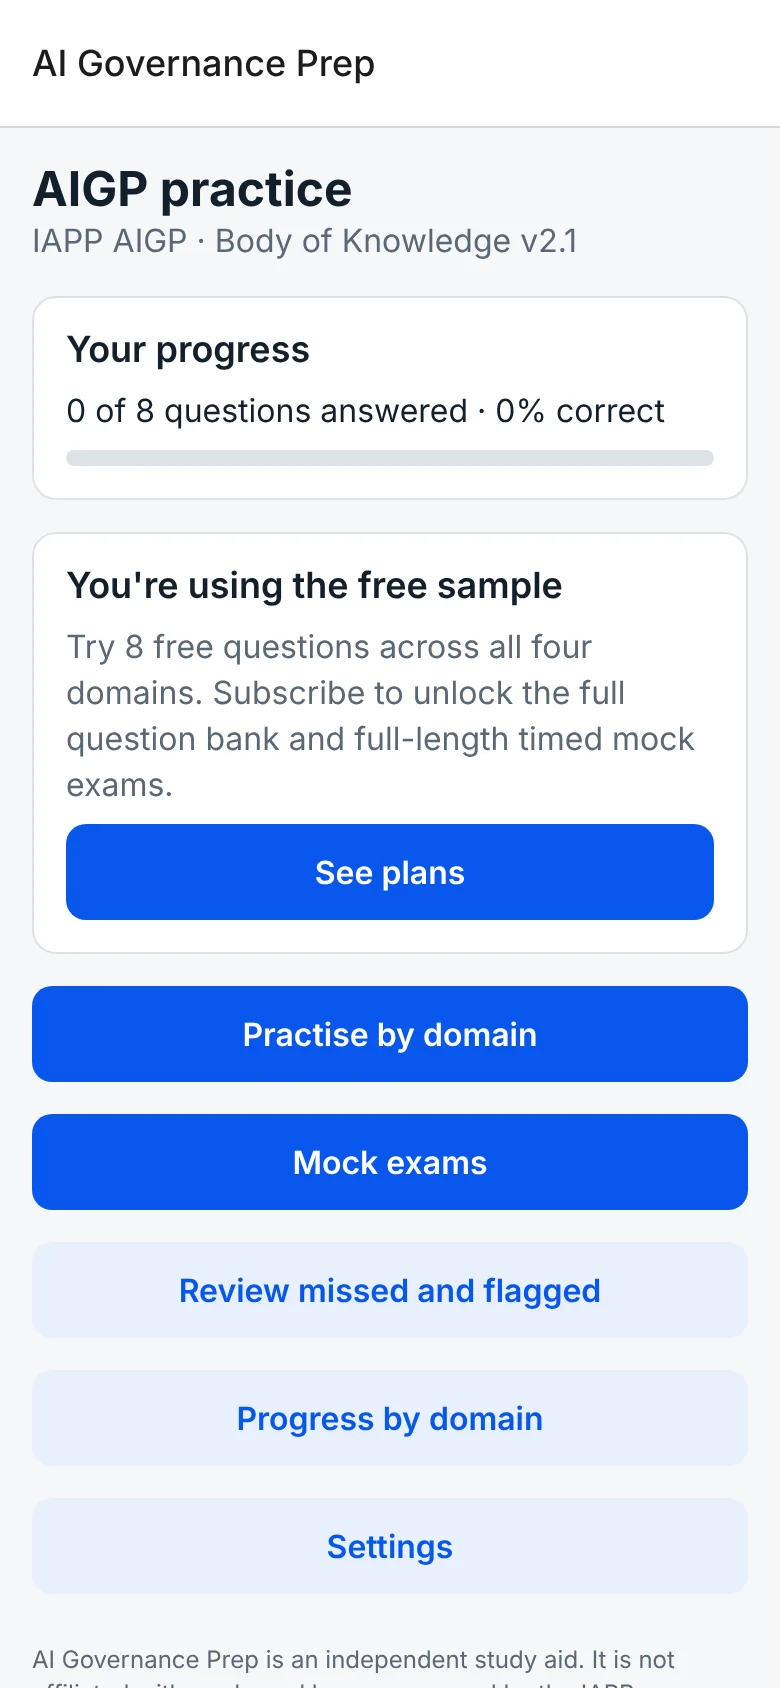
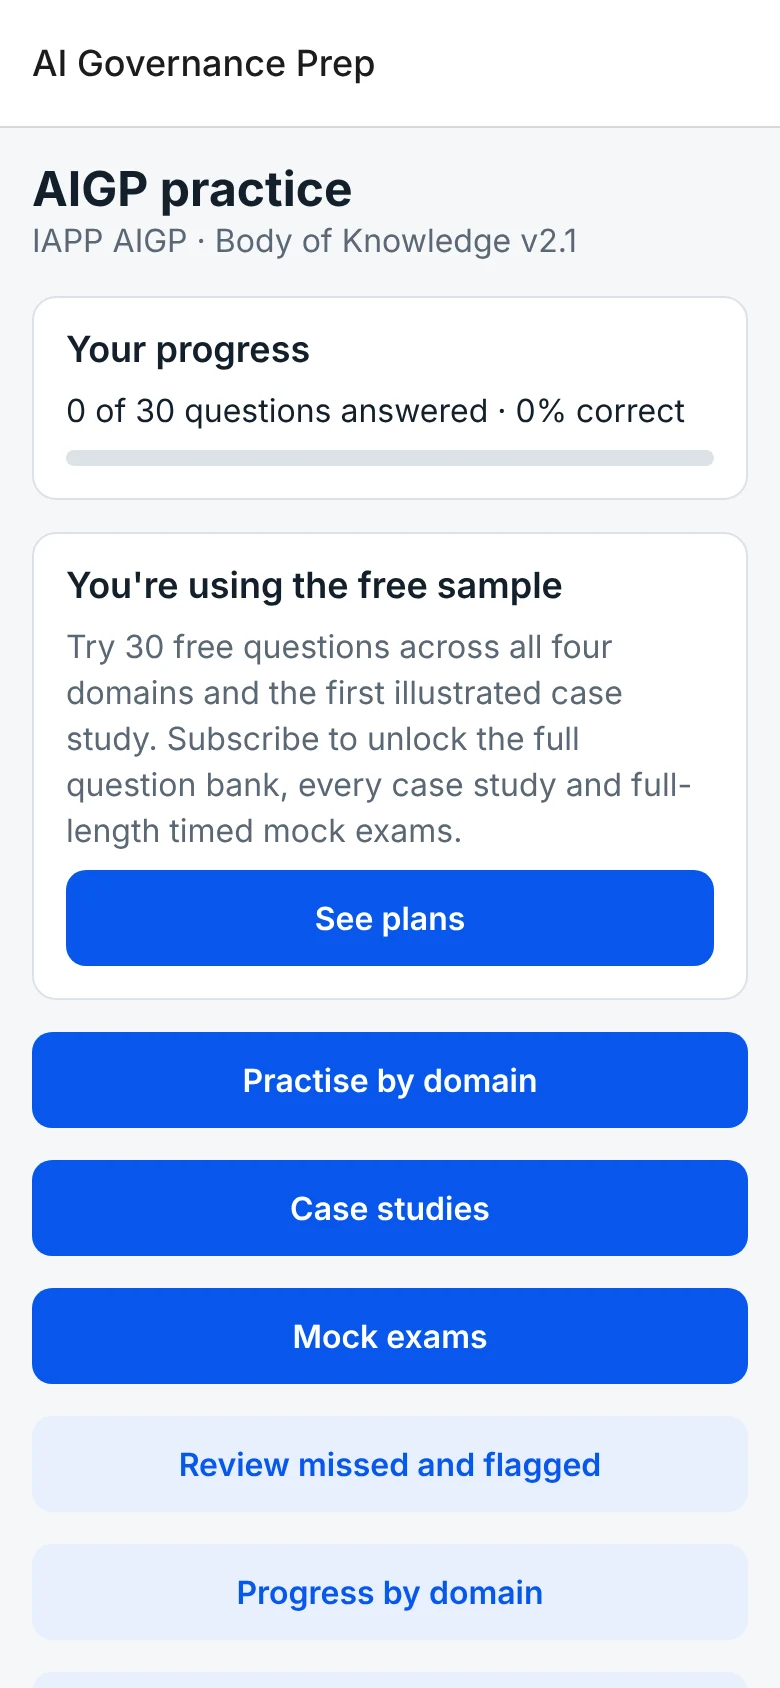
AI Governance Prep: re-capture screen-1 (30 free questions, Case studies button) (#10)
Captured from the app's web export at main 5489b3e (390x844 @2x).

Claude-Session: https://claude.ai/code/session_01TFjy267e9ozPkbnrLrKx2t

diff --git a/aigovernanceprep/index.html b/aigovernanceprep/index.html
@@ -29,14 +29,14 @@
       </div>
       <p class="note">30 free questions · then $9.99 a month</p>
     </div>
-    <div class="art" aria-hidden="true"><div class="phone"><img src="/assets/aigovernanceprep/screen-1.webp?v=704f0ba9" width="390" height="844" alt="AI Governance Prep: Everything from one home screen"></div></div>
+    <div class="art" aria-hidden="true"><div class="phone"><img src="/assets/aigovernanceprep/screen-1.webp?v=4fd64392" width="390" height="844" alt="AI Governance Prep: Everything from one home screen"></div></div>
   </div></section>
 
   <section class="section" id="screens"><div class="wrap">
     <p class="eyebrow">See it in action</p>
     <h2>4 screens, one job.</h2>
     
-    <div class="shots"><figure class="shot"><div class="phone"><img src="/assets/aigovernanceprep/screen-1.webp?v=704f0ba9" width="390" height="844" alt="AI Governance Prep: Everything from one home screen" loading="lazy"></div><figcaption><strong>Everything from one home screen</strong><span>Practice, mock exams, review and progress.</span></figcaption></figure><figure class="shot"><div class="phone"><img src="/assets/aigovernanceprep/screen-2.webp?v=a3e0f2be" width="390" height="844" alt="AI Governance Prep: Scenario-based questions" loading="lazy"></div><figcaption><strong>Scenario-based questions</strong><span>Practise all four domains or one at a time.</span></figcaption></figure><figure class="shot"><div class="phone"><img src="/assets/aigovernanceprep/screen-3.webp?v=e8df2087" width="390" height="844" alt="AI Governance Prep: Every answer explained" loading="lazy"></div><figcaption><strong>Every answer explained</strong><span>Why the right answer is right, and why yours wasn&#x27;t.</span></figcaption></figure><figure class="shot"><div class="phone"><img src="/assets/aigovernanceprep/screen-4.webp?v=5fabb293" width="390" height="844" alt="AI Governance Prep: Simple plans" loading="lazy"></div><figcaption><strong>Simple plans</strong><span>$9.99 a month or $24.99 for three months.</span></figcaption></figure></div>
+    <div class="shots"><figure class="shot"><div class="phone"><img src="/assets/aigovernanceprep/screen-1.webp?v=4fd64392" width="390" height="844" alt="AI Governance Prep: Everything from one home screen" loading="lazy"></div><figcaption><strong>Everything from one home screen</strong><span>Practice, mock exams, review and progress.</span></figcaption></figure><figure class="shot"><div class="phone"><img src="/assets/aigovernanceprep/screen-2.webp?v=a3e0f2be" width="390" height="844" alt="AI Governance Prep: Scenario-based questions" loading="lazy"></div><figcaption><strong>Scenario-based questions</strong><span>Practise all four domains or one at a time.</span></figcaption></figure><figure class="shot"><div class="phone"><img src="/assets/aigovernanceprep/screen-3.webp?v=e8df2087" width="390" height="844" alt="AI Governance Prep: Every answer explained" loading="lazy"></div><figcaption><strong>Every answer explained</strong><span>Why the right answer is right, and why yours wasn&#x27;t.</span></figcaption></figure><figure class="shot"><div class="phone"><img src="/assets/aigovernanceprep/screen-4.webp?v=5fabb293" width="390" height="844" alt="AI Governance Prep: Simple plans" loading="lazy"></div><figcaption><strong>Simple plans</strong><span>$9.99 a month or $24.99 for three months.</span></figcaption></figure></div>
   </div></section>
   <section class="section tint" id="features"><div class="wrap">
     <h2>Everything it needs. Nothing it doesn't.</h2>

diff --git a/index.html b/index.html
@@ -57,7 +57,7 @@
         <div class="status">Coming soon to the App Store and Google Play</div>
         <div class="more">Explore AI Governance Prep →</div>
       </div>
-      <div class="card-art" aria-hidden="true"><div class="phone"><img src="/assets/aigovernanceprep/screen-1.webp?v=704f0ba9" width="390" height="844" alt="AI Governance Prep: Everything from one home screen" loading="lazy"></div></div>
+      <div class="card-art" aria-hidden="true"><div class="phone"><img src="/assets/aigovernanceprep/screen-1.webp?v=4fd64392" width="390" height="844" alt="AI Governance Prep: Everything from one home screen" loading="lazy"></div></div>
     </a>
     <a class="card" href="/chorejar/" style="--accent:#C1305F;--accent-soft:#FBE3EA;--accent-ink:#ffffff">
       <div class="card-copy">
